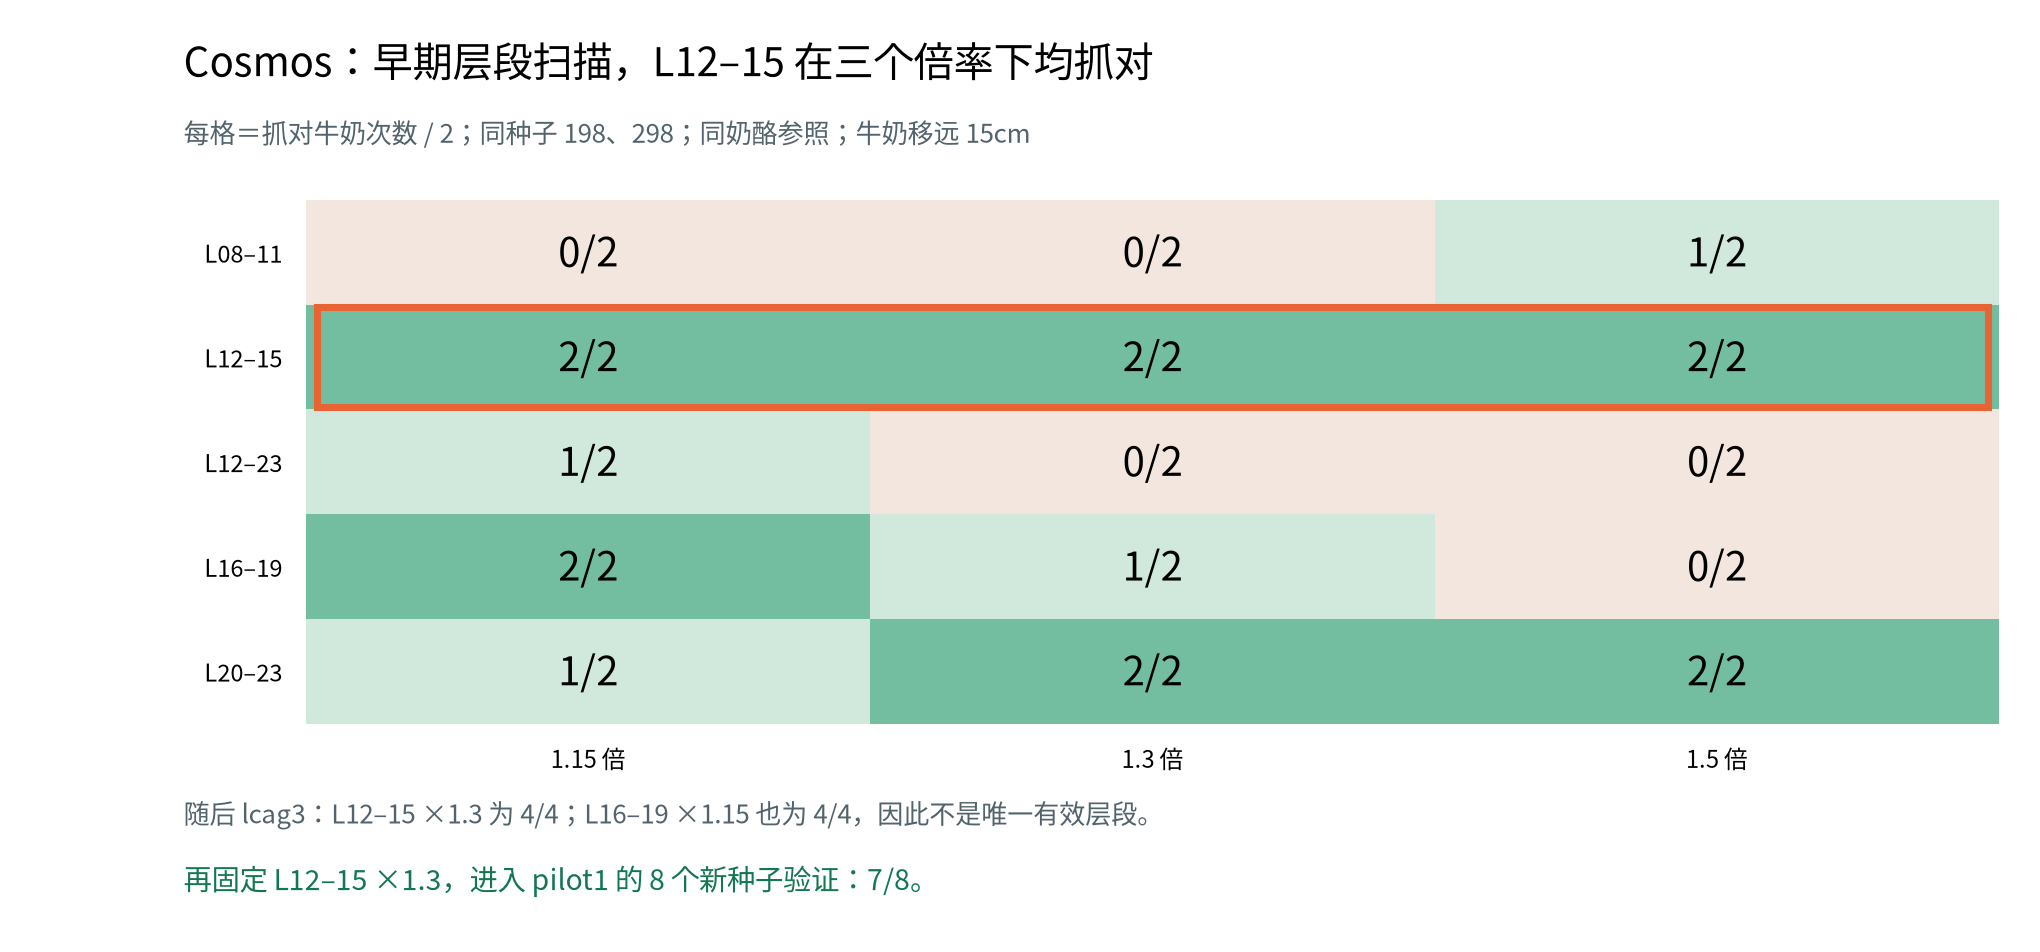
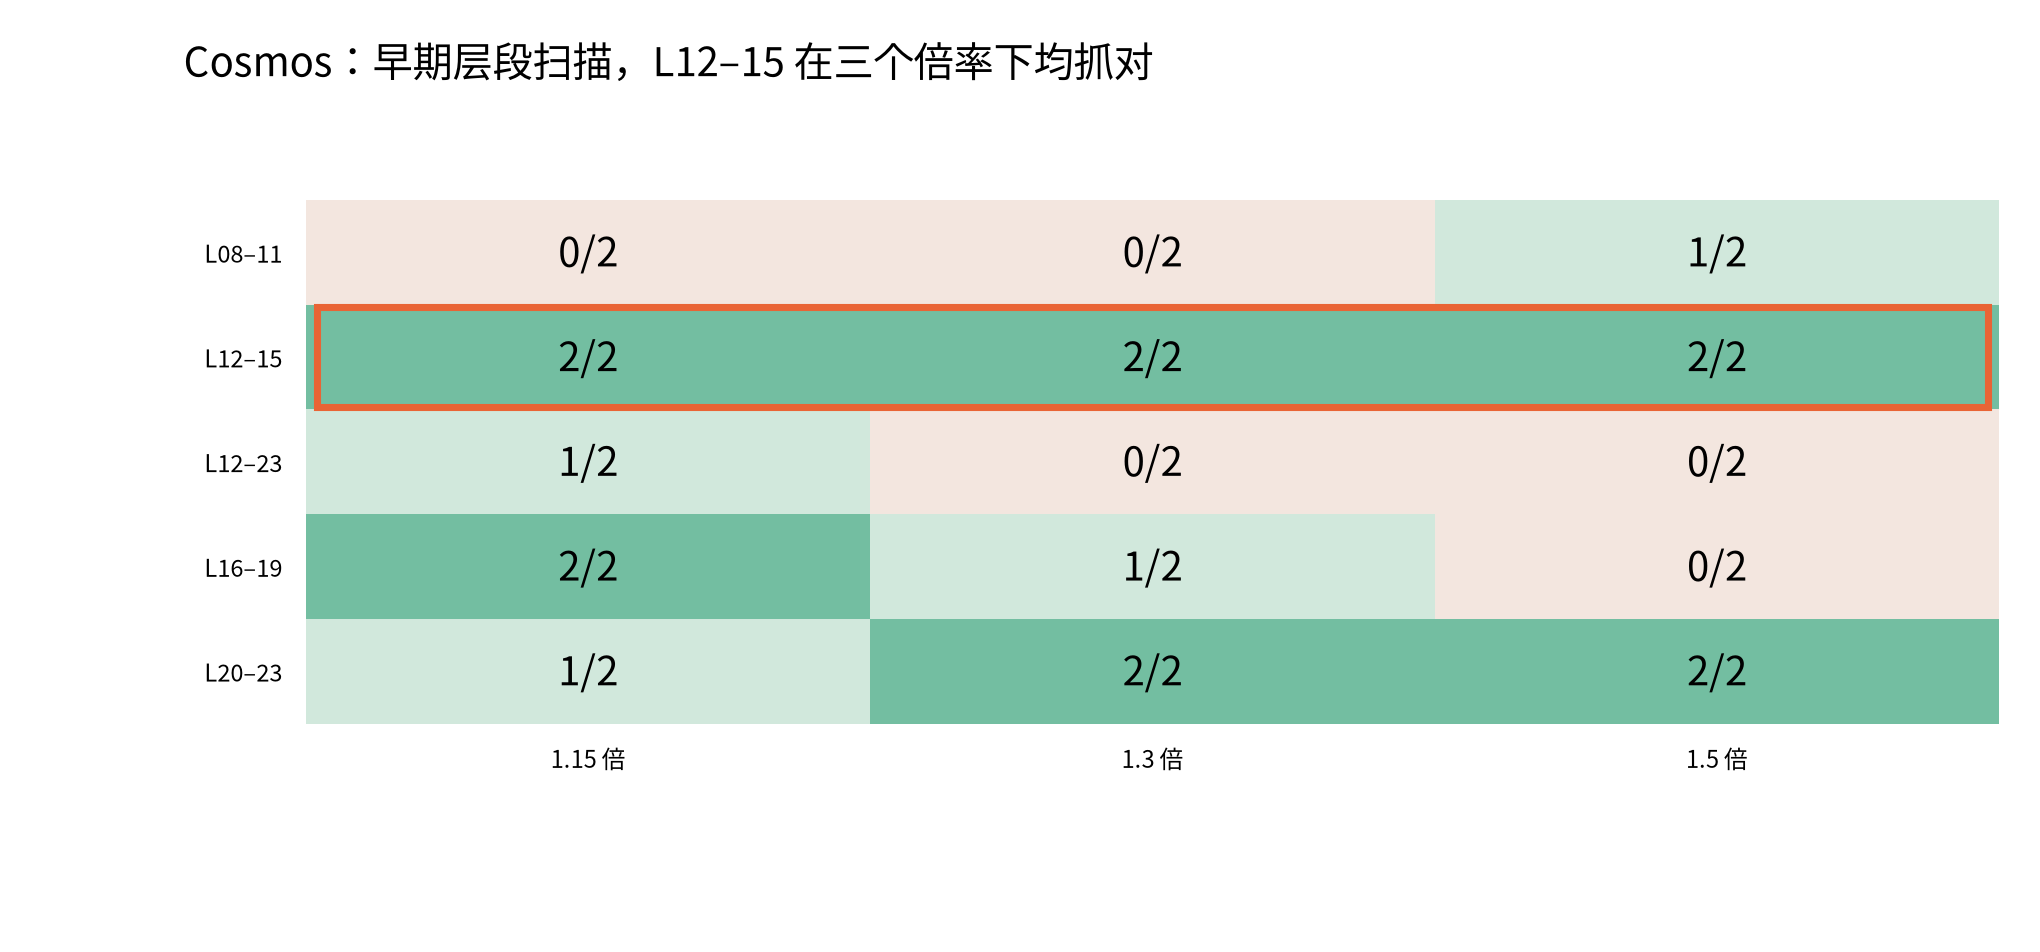
docs: remove small annotations and simplify experiment presentation

Changed region(s): [[0.0926, 0.8225, 0.5559, 0.8834], [0.0926, 0.1218, 0.4941, 0.1523], [0.0926, 0.9139, 0.4632, 0.9443]]

diff --git a/docs/experiment.html b/docs/experiment.html
@@ -1,5 +1,5 @@
 <!doctype html><html lang="zh-CN"><meta charset="utf-8"><meta name="viewport" content="width=device-width,initial-scale=1"><title>我们改了哪里 · π 与 Cosmos</title><style>
-*{box-sizing:border-box}body{margin:0;background:#f3f5f7;color:#172c35;font:16px/1.65 system-ui,"Noto Sans CJK SC",sans-serif}main{max-width:1260px;margin:auto;padding:40px 28px 70px}header{display:flex;justify-content:space-between;align-items:center;margin-bottom:30px}h1{font-size:32px;line-height:1.3;margin:4px 0 8px}p{margin:8px 0}a{color:#007d72}small,.sub{color:#65757d;font-size:13px}.eyebrow{font-size:12px;letter-spacing:2px;color:#007d72}.card{background:white;border:1px solid #dde5e8;border-radius:18px;margin:24px 0 38px;overflow:hidden}.head{padding:25px 30px 14px;display:flex;justify-content:space-between;align-items:center;gap:20px}h2{font-size:25px;margin:0}.tag{color:#bb482a;background:#fff0e7;border:1px solid #efbd9f;padding:7px 13px;border-radius:8px;font-weight:650;white-space:nowrap}.visual{padding:10px 30px 0}.figure{position:relative;width:100%;background:white}.figure img{display:block;width:100%;height:auto}.mark{position:absolute;border:3px solid #f06432;border-radius:10px;background:#ff8c3812;box-shadow:0 0 0 3px white;pointer-events:none}.pin{position:absolute;top:-16px;left:-16px;border:3px solid white;background:#e85e2d;border-radius:50%;width:31px;height:31px;display:grid;place-items:center;color:white;font-weight:750;font-size:14px}.pi{left:85%;top:39%;width:14%;height:34%}.cosmos{left:32%;top:25%;width:27%;height:47%}.caption{font-size:12px;color:#6a7980;margin:9px 0 20px}.explain{margin:0 30px 25px;background:#fff4eb;border-left:4px solid #e85e2d;padding:14px 18px;font-size:16px}.result{padding:24px 30px;background:#f8fafb;border-top:1px solid #e2e8eb}.scenario{font-weight:650;margin-bottom:16px}.compare{display:grid;grid-template-columns:1fr 42px 1fr;align-items:center;gap:15px}.score{background:white;border:1px solid #e0e6e8;border-radius:12px;padding:18px 22px}.score .num{font-size:38px;line-height:1.2;font-weight:720;letter-spacing:-1px;margin:8px 0}.score.good{border-color:#a7d5c5;background:#eff8f3}.good .num{color:#137752}.arrow{text-align:center;font-size:30px;color:#9aabb2}.label{font-size:13px;color:#61727a}.note{font-size:13px;color:#68777e;margin-top:15px}.risk{color:#ac4736}.row{display:flex;gap:20px;flex-wrap:wrap;font-size:14px;margin-top:16px}.row span{background:#fff;border:1px solid #e0e6e8;border-radius:6px;padding:7px 11px}details{margin-top:16px;font-size:14px}summary{cursor:pointer;color:#007d72}table{border-collapse:collapse;width:100%;margin-top:12px;font-size:14px}td,th{padding:9px;border-bottom:1px solid #dce5e8;text-align:left}.foot{font-size:13px;color:#68777e}a:focus-visible,summary:focus-visible{outline:3px solid #00a28f;outline-offset:3px}@media(max-width:650px){main{padding:22px 12px}header,.head{align-items:flex-start;flex-direction:column}.head,.result{padding:20px}.visual{padding:10px}.explain{margin:0 20px 20px}.compare{grid-template-columns:1fr 22px 1fr;gap:6px}.score{padding:12px}.score .num{font-size:30px}h1{font-size:27px}.tag{font-size:14px}.figure{min-width:580px}.visual{overflow:auto}.pin{width:25px;height:25px;font-size:12px}.caption{min-width:0}}
-</style><main><header><div><div class="eyebrow">INTELLIGENCE / 模型改造</div><h1>我们改了哪里？效果如何？</h1><p class="sub">只改推理隐状态，不改权重。</p></div><a href="index.html">返回实验站首页 ↗</a></header>
-<section class="card"><div class="head"><div><h2>01 · π₀.₅</h2><p class="sub">看图、读指令 → 动作专家 → 机械臂动作</p></div><span class="tag">① 动作专家 · L16</span></div><div class="visual"><div class="figure"><img src="assets/models/pi-official.png" alt="π0.5 官方论文图3：左为预训练，右为推理结构，右侧 action expert 被橙框标出"><div class="mark pi"><span class="pin">1</span></div></div><p class="caption">原图：<a href="https://arxiv.org/pdf/2504.16054#page=4" target="_blank" rel="noopener">Physical Intelligence，π₀.₅ 论文 Fig. 3</a> · 橙框：我们的干预模块。</p></div><div style="padding:22px 30px;border-top:1px solid #e2e8eb"><h3>为什么选 L16？</h3><img style="width:100%;height:auto" src="assets/models/pi-layer-choice.png" alt="为什么选 L16？选层证据图"><p class="note">L16 探针误差最低；尚未证明它是最佳干预层。 <a href="assets/models/layer-choice-data.json">图表数据</a></p></div><div class="explain"><b>改法：</b>L16 加固定向量：抓对状态 − 抓错状态。<br><small>旧记录拟合；每步去噪都加。</small></div><div class="result"><div class="scenario">原桌面＋橙汁移位 · 指令：拿橙汁</div><div class="compare"><div class="score"><div class="label">改之前</div><div class="num">0 / 6</div><div>4 次黄油、1 次奶酪、1 次未抓起</div></div><div class="arrow">→</div><div class="score good"><div class="label">L16 修正后</div><div class="num">5 / 6</div><div>5 次橙汁、1 次未抓起</div></div></div><div class="row"><span>相近布局：0/4 → <b>4/4</b></span><span class="risk">官方场景：4/4 → <b>0/4</b></span></div><p class="note"><b>结果：局部有效，但会破坏本来正确的动作。</b>这里统计抓起目标，不是放入篮子。<a href="reports/pi-orange-repair/README.md">原始实验</a> · <a href="reports/pi-orange-transfer/README.md">跨场景验证</a></p></div></section>
-<section class="card"><div class="head"><div><h2>补充：把 Cosmos 的差分方法用到 π</h2><p class="sub">原桌面，橙汁未移位 · 指令“拿橙汁” · 3 个相同的新种子</p></div><span class="tag">L16 · 在线差分</span></div><div class="result"><p>每步重算：橙汁状态 +（倍率 − 1）×（橙汁状态 − 黄油状态）。</p><table><tr><th>方法</th><th>抓对橙汁</th><th>其余结果</th></tr><tr><td>原模型</td><td>0/3</td><td>3 次黄油</td></tr><tr><td>黄油参照 ×1（不放大）</td><td>0/3</td><td>3 次黄油</td></tr><tr><td>黄油参照 ×1.3</td><td><b>1/3</b></td><td>2 次黄油</td></tr><tr><td>黄油参照 ×1.5</td><td><b>2/3</b></td><td>1 次黄油</td></tr><tr><td>黄油参照 ×2</td><td><b>3/3</b></td><td>无</td></tr><tr><td>黄油参照 ×3</td><td><b>3/3</b></td><td>无</td></tr><tr><td>空参照 ×1.3</td><td>0/3</td><td>3 次黄油</td></tr></table><p class="note"><b>×2、×3 均 3/3；仅当前场景。</b> <a href="reports/pi-online-contrast/README.md">实验记录</a> · <a href="reports/pi-online-contrast/scale2-all-seeds.gif">看 ×2 的全部三个种子</a></p></div></section><section class="card"><div class="head"><div><h2>02 · Cosmos 3</h2><p class="sub">理解分支（Reasoner）＋生成分支（Generator）</p></div><span class="tag">② 生成分支 · L12–15</span></div><div class="visual"><div class="figure"><img src="assets/models/cosmos-official.png" alt="Cosmos 3 官方论文图5：理解和生成双分支共享注意力，生成分支用橙框标出"><div class="mark cosmos"><span class="pin">2</span></div></div><p class="caption">原图：<a href="https://research.nvidia.com/labs/cosmos-lab/cosmos3/technical-report.pdf#page=11" target="_blank" rel="noopener">NVIDIA，Cosmos 3 技术报告 Fig. 5</a> · 橙框：生成分支中的 L12–15。</p></div><div style="padding:22px 30px;border-top:1px solid #e2e8eb"><h3>为什么选 L12–15？</h3><img style="width:100%;height:auto" src="assets/models/cosmos-layer-choice.png" alt="为什么选 L12–15？选层证据图"><p class="note">先扫层选配置，再用 pilot1 新种子验证。 <a href="assets/models/layer-choice-data.json">图表数据</a></p></div><div class="explain"><b>改法：</b>同图、同噪声，两句指令相减：<br><b>新状态 = 牛奶状态 + 0.3 ×（牛奶状态 − 奶酪状态）</b><br><small>改未来画面＋动作；人工指定奶酪参照。</small></div><div class="result"><div class="scenario">pilot1 · 牛奶移远 15cm · 指令：拿牛奶</div><div class="compare"><div class="score"><div class="label">默认推理 · 相同 8 个种子</div><div class="num">2 / 8</div><div>另外 6 次抓奶酪</div></div><div class="arrow">→</div><div class="score good"><div class="label">奶酪参照＋隐层干预</div><div class="num">7 / 8</div><div>抓对牛奶；1 次未抓起</div></div></div><div class="row"><span>动作输出 CAG · 空参照：<b>最好 2/8</b></span><span>种子：1198–1898，间隔 100</span></div><p class="note"><b>结果：这组配对实验中，奶酪参照的隐层干预明显改善。</b>与 CAG 比较时，参照句和干预位置都变了，不能只归因于层位置。</p><p class="note"><a href="assets/models/pilot1-evidence.json">原始数据 ↗</a></p></div></section><section class="card" id="related"><div class="head"><div><h2>参考研究 · 和我们的关系</h2></div></div><div class="result"><table><thead><tr><th>研究</th><th>给我们的启发</th></tr></thead><tbody><tr><td><a href="https://arxiv.org/abs/2603.19233" target="_blank" rel="noopener">VLA 机制研究</a></td><td>指令能被读出，不代表动作可靠跟随；要用隐状态干预验证。</td></tr><tr><td><a href="https://arxiv.org/abs/2609.39971" target="_blank" rel="noopener">ECT：指令与轨迹绑定</a></td><td>关注模型是否选了熟悉的错误轨迹，而非只看它有没有读懂文字。</td></tr><tr><td><a href="https://arxiv.org/abs/2602.17659" target="_blank" rel="noopener">CAG：指令对比引导</a></td><td>通过有／无指令的动作差异加强语言作用，是我们的对照方法。</td></tr></tbody></table><p><b>我们的尝试：</b>在中间层放大“目标指令 − 错抓物体指令”的差异。</p><p class="note">基于已有文献整理；这是与前人工作的联系，不是新颖性证明。当前仍依赖人工指定错抓物体。</p></div></section><p class="foot">结果均为抓起目标，不是入篮成功率。两模型实验条件不同。</p></main></html>
+*{box-sizing:border-box}body{margin:0;background:#f3f5f7;color:#172c35;font:16px/1.65 system-ui,"Noto Sans CJK SC",sans-serif}main{max-width:1260px;margin:auto;padding:40px 28px 70px}header{display:flex;justify-content:space-between;align-items:center;margin-bottom:30px}h1{font-size:32px;line-height:1.3;margin:4px 0 8px}p{margin:8px 0}a{color:#007d72}small,.sub{color:#65757d;font-size:13px}.eyebrow{font-size:12px;letter-spacing:2px;color:#007d72}.card{background:white;border:1px solid #dde5e8;border-radius:18px;margin:24px 0 38px;overflow:hidden}.head{padding:25px 30px 14px;display:flex;justify-content:space-between;align-items:center;gap:20px}h2{font-size:25px;margin:0}.tag{color:#bb482a;background:#fff0e7;border:1px solid #efbd9f;padding:7px 13px;border-radius:8px;font-weight:650;white-space:nowrap}.visual{padding:10px 30px 0}.figure{position:relative;width:100%;background:white}.figure img{display:block;width:100%;height:auto}.mark{position:absolute;border:3px solid #f06432;border-radius:10px;background:#ff8c3812;box-shadow:0 0 0 3px white;pointer-events:none}.pin{position:absolute;top:-16px;left:-16px;border:3px solid white;background:#e85e2d;border-radius:50%;width:31px;height:31px;display:grid;place-items:center;color:white;font-weight:750;font-size:14px}.pi{left:85%;top:39%;width:14%;height:34%}.cosmos{left:32%;top:25%;width:27%;height:47%}.caption{font-size:12px;color:#6a7980;margin:9px 0 20px}.explain{margin:0 30px 25px;background:#fff4eb;border-left:4px solid #e85e2d;padding:14px 18px;font-size:16px}.result{padding:24px 30px;background:#f8fafb;border-top:1px solid #e2e8eb}.scenario{font-weight:650;margin-bottom:16px}.compare{display:grid;grid-template-columns:1fr 42px 1fr;align-items:center;gap:15px}.score{background:white;border:1px solid #e0e6e8;border-radius:12px;padding:18px 22px}.score .num{font-size:38px;line-height:1.2;font-weight:720;letter-spacing:-1px;margin:8px 0}.score.good{border-color:#a7d5c5;background:#eff8f3}.good .num{color:#137752}.arrow{text-align:center;font-size:30px;color:#9aabb2}.label{font-size:16px;color:#61727a}.note{font-size:13px;color:#68777e;margin-top:15px}.risk{color:#ac4736}.row{display:flex;gap:20px;flex-wrap:wrap;font-size:14px;margin-top:16px}.row span{background:#fff;border:1px solid #e0e6e8;border-radius:6px;padding:7px 11px}details{margin-top:16px;font-size:14px}summary{cursor:pointer;color:#007d72}table{border-collapse:collapse;width:100%;margin-top:12px;font-size:14px}td,th{padding:9px;border-bottom:1px solid #dce5e8;text-align:left}.foot{font-size:13px;color:#68777e}a:focus-visible,summary:focus-visible{outline:3px solid #00a28f;outline-offset:3px}@media(max-width:650px){main{padding:22px 12px}header,.head{align-items:flex-start;flex-direction:column}.head,.result{padding:20px}.visual{padding:10px}.explain{margin:0 20px 20px}.compare{grid-template-columns:1fr 22px 1fr;gap:6px}.score{padding:12px}.score .num{font-size:30px}h1{font-size:27px}.tag{font-size:14px}.figure{min-width:580px}.visual{overflow:auto}.pin{width:25px;height:25px;font-size:12px}.caption{min-width:0}}
+</style><main><header><div><h1>我们改了哪里？效果如何？</h1></div><a href="index.html">返回实验站首页 ↗</a></header>
+<section class="card"><div class="head"><div><h2>01 · π₀.₅</h2></div><span class="tag">① 动作专家 · L16</span></div><div class="visual"><div class="figure"><img title="官方原图：π0.5 论文 Fig. 3" src="assets/models/pi-official.png" alt="π0.5 官方论文图3：左为预训练，右为推理结构，右侧 action expert 被橙框标出"><div class="mark pi"><span class="pin">1</span></div></div></div><div style="padding:22px 30px;border-top:1px solid #e2e8eb"><h3>为什么选 L16？</h3><img style="width:100%;height:auto" src="assets/models/pi-layer-choice.png" alt="为什么选 L16？选层证据图"></div><div class="explain"><b>改法：</b>L16 加固定向量：抓对状态 − 抓错状态。<br></div><div class="result"><div class="scenario">原桌面＋橙汁移位 · 指令：拿橙汁</div><div class="compare"><div class="score"><div class="label">改之前</div><div class="num">0 / 6</div><div>4 次黄油、1 次奶酪、1 次未抓起</div></div><div class="arrow">→</div><div class="score good"><div class="label">L16 修正后</div><div class="num">5 / 6</div><div>5 次橙汁、1 次未抓起</div></div></div><div class="row"><span>相近布局：0/4 → <b>4/4</b></span><span class="risk">官方场景：4/4 → <b>0/4</b></span></div></div></section>
+<section class="card"><div class="head"><div><h2>补充：把 Cosmos 的差分方法用到 π</h2></div><span class="tag">L16 · 在线差分</span></div><div class="result"><p>每步重算：橙汁状态 +（倍率 − 1）×（橙汁状态 − 黄油状态）。</p><table><tr><th>方法</th><th>抓对橙汁</th><th>其余结果</th></tr><tr><td>原模型</td><td>0/3</td><td>3 次黄油</td></tr><tr><td>黄油参照 ×1（不放大）</td><td>0/3</td><td>3 次黄油</td></tr><tr><td>黄油参照 ×1.3</td><td><b>1/3</b></td><td>2 次黄油</td></tr><tr><td>黄油参照 ×1.5</td><td><b>2/3</b></td><td>1 次黄油</td></tr><tr><td>黄油参照 ×2</td><td><b>3/3</b></td><td>无</td></tr><tr><td>黄油参照 ×3</td><td><b>3/3</b></td><td>无</td></tr><tr><td>空参照 ×1.3</td><td>0/3</td><td>3 次黄油</td></tr></table><p><a href="reports/pi-online-contrast/scale2-all-seeds.gif">查看动作对比 ▶</a></p></div></section><section class="card"><div class="head"><div><h2>02 · Cosmos 3</h2></div><span class="tag">② 生成分支 · L12–15</span></div><div class="visual"><div class="figure"><img title="官方原图：Cosmos 3 技术报告 Fig. 5" src="assets/models/cosmos-official.png" alt="Cosmos 3 官方论文图5：理解和生成双分支共享注意力，生成分支用橙框标出"><div class="mark cosmos"><span class="pin">2</span></div></div></div><div style="padding:22px 30px;border-top:1px solid #e2e8eb"><h3>为什么选 L12–15？</h3><img style="width:100%;height:auto" src="assets/models/cosmos-layer-choice.png" alt="为什么选 L12–15？选层证据图"></div><div class="explain"><b>改法：</b>同图、同噪声，两句指令相减：<br><b>新状态 = 牛奶状态 + 0.3 ×（牛奶状态 − 奶酪状态）</b><br></div><div class="result"><div class="scenario">pilot1 · 牛奶移远 15cm · 指令：拿牛奶</div><div class="compare"><div class="score"><div class="label">默认推理 · 相同 8 个种子</div><div class="num">2 / 8</div><div>另外 6 次抓奶酪</div></div><div class="arrow">→</div><div class="score good"><div class="label">奶酪参照＋隐层干预</div><div class="num">7 / 8</div><div>抓对牛奶；1 次未抓起</div></div></div><div class="row"><span>动作输出 CAG · 空参照：<b>最好 2/8</b></span><span>种子：1198–1898，间隔 100</span></div></div></section><section class="card" id="related"><div class="head"><div><h2>参考研究 · 和我们的关系</h2></div></div><div class="result"><table><thead><tr><th>研究</th><th>给我们的启发</th></tr></thead><tbody><tr><td><a href="https://arxiv.org/abs/2603.19233" target="_blank" rel="noopener">VLA 机制研究</a></td><td>指令能被读出，不代表动作可靠跟随；要用隐状态干预验证。</td></tr><tr><td><a href="https://arxiv.org/abs/2609.39971" target="_blank" rel="noopener">ECT：指令与轨迹绑定</a></td><td>关注模型是否选了熟悉的错误轨迹，而非只看它有没有读懂文字。</td></tr><tr><td><a href="https://arxiv.org/abs/2602.17659" target="_blank" rel="noopener">CAG：指令对比引导</a></td><td>通过有／无指令的动作差异加强语言作用，是我们的对照方法。</td></tr></tbody></table><p><b>我们的尝试：</b>在中间层放大“目标指令 − 错抓物体指令”的差异。</p></div></section></main></html>
